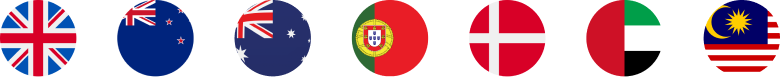
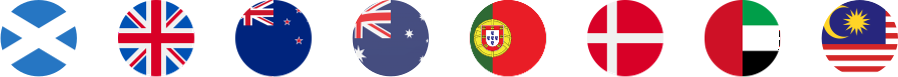
Replace large svg images with png

diff --git a/src/components/CTA.vue b/src/components/CTA.vue
@@ -1,16 +1,16 @@
 <template>
   <v-container fluid>
     <v-row class="justify-center">
-      <div class="wrapper d-flex flex-column flex-md-row justify-space-between align-center bg-primary rounded-xl">
-        <div class="d-flex flex-column align-center">
-          <p class="heading mb-5">Why don't you give it a try and see if it fits your needs?</p>
+      <div class="wrapper d-flex flex-column flex-md-row justify-space-evenly align-center bg-primary rounded-xl">
+        <div class="d-flex flex-column align-center align-md-start">
+          <p class="heading mb-5 text-md-left">Why don't you give it a try and see if it fits your needs?</p>
           <v-btn class="btn rounded-pill text-primary mb-10" href="https://survey.intake24.dev/demo/generate-user" target="_blank">
             Try a demo
           </v-btn>
         </div>
         <div>
           <figure>
-            <img src="@/assets/cta-2-image.svg" alt="CTA Image" loading="lazy" />
+            <img src="@/assets/cta-2-image.png" alt="CTA Image" loading="lazy" />
           </figure>
         </div>
       </div>
@@ -28,7 +28,7 @@
   font-size: 18px;
   text-align: center;
   font-weight: bold;
-  line-height: 1;
+  line-height: 2;
 }
 
 img {

diff --git a/src/components/Hero.vue b/src/components/Hero.vue
@@ -24,8 +24,8 @@
       </v-col>
       <!-- Hero Image -->
       <v-col cols="12" md="6" class="mx-md-auto">
-        <figure class="hero-image mx-auto">
-          <img src="@/assets/hero.svg" alt="Hero image" />
+        <figure class="mx-auto text-center">
+          <img class="hero-image" src="@/assets/hero.png" alt="Hero image" />
         </figure>
       </v-col>
     </v-row>
@@ -87,7 +87,7 @@
   }
 
   .hero-image {
-    width: 50%;
+    width: 80%;
   }
 
   .cta-btn {
@@ -129,7 +129,7 @@
   }
 
   .hero-image {
-    width: 90%;
+    width: 80%;
   }
 
   .cta-btn {

diff --git a/src/components/CountriesFoodDatabases.vue b/src/components/CountriesFoodDatabases.vue
@@ -11,7 +11,7 @@
     <v-row class="justify-center">
       <div class="text-center">
         <p class="subheading mx-auto mb-10">Localised food databases for different countries: United Kingdom, New Zealand, Australia, Portugal, Denmark and the United Arab Emirates, Japan*, Indonesia*, Malaysia*, and South Asia (*in development)</p>
-        <img src="@/assets/flags-image.svg" alt="Flags image" loading="lazy" />
+        <img src="@/assets/flags-image.png" alt="Flags image" loading="lazy" />
       </div>
     </v-row>
   </v-container>

diff --git a/src/components/BaseCarousel.vue b/src/components/BaseCarousel.vue
@@ -13,9 +13,9 @@
 
 <script setup lang="ts">
 import { ref } from 'vue'
-import Testimonial1 from '@/assets/testimonial-1.svg'
-import Testimonial2 from '@/assets/testimonial-2.svg'
-import Testimonial3 from '@/assets/testimonial-3.svg'
+import Testimonial1 from '@/assets/testimonial-1.png'
+import Testimonial2 from '@/assets/testimonial-2.png'
+import Testimonial3 from '@/assets/testimonial-3.png'
 
 const carousel = ref<HTMLDivElement | null>(null)
 const activeIndex = ref(0)

diff --git a/src/components/Features.vue b/src/components/Features.vue
@@ -34,9 +34,9 @@
 </template>
 
 <script setup lang="ts">
-import Section1 from '@/assets/section-1.svg'
-import Section2 from '@/assets/section-2.svg'
-import Section3 from '@/assets/section-3.svg'
+import Section1 from '@/assets/section-1.png'
+import Section2 from '@/assets/section-2.png'
+import Section3 from '@/assets/section-3.png'
 import Section4 from '@/assets/section-4.svg'
 
 const isEven = (index: number) => index % 2 === 0

diff --git a/src/components/Impact.vue b/src/components/Impact.vue
@@ -10,7 +10,7 @@
 
     <v-row class="justify-center text-center">
       <figure>
-        <img src="@/assets/intake-impacts-logos.svg" alt="Intake24's Impact Logo" loading="lazy"/>
+        <img src="@/assets/intake-impacts-logos.png" alt="Intake24's Impact Logo" loading="lazy"/>
       </figure>
     </v-row>
     <!-- Spacer -->

diff --git a/src/layouts/default/AppBar.vue b/src/layouts/default/AppBar.vue
@@ -61,10 +61,6 @@ const drawer = ref(false);
 
 const mdAndUp = computed(() => display.mdAndUp.value)
 
-onMounted(() => {
-  console.log('Mobile: ', display.mdAndUp.value)
-})
-
 const navOptions = [
   { id: '1', name: 'About', link: '#about' },
   { id: '2', name: 'Features', link: '#features' },

diff --git a/src/components/Footer.vue b/src/components/Footer.vue
@@ -87,6 +87,10 @@ const navOptions = [{ id: '1', name: 'About' }, { id: '2', name: 'Features' }, {
   background-color: #E2622A;
 }
 
+.copyright p {
+  color: white;
+}
+
 .links {
   margin: 0
 }

diff --git a/src/styles/settings.scss b/src/styles/settings.scss
@@ -5,7 +5,8 @@
  */
 
 @use "vuetify" with (
-  $body-font-family: "Rubik"
+  $body-font-family: "Rubik",
+  $color-pack: false,
 );
 
 // https://vuetifyjs.com/features/sass-variables/`

diff --git a/src/plugins/vuetify.ts b/src/plugins/vuetify.ts
@@ -5,7 +5,6 @@
  */
 
 // Styles
-import "@mdi/font/css/materialdesignicons.css";
 import "vuetify/styles";
 
 // Composables
